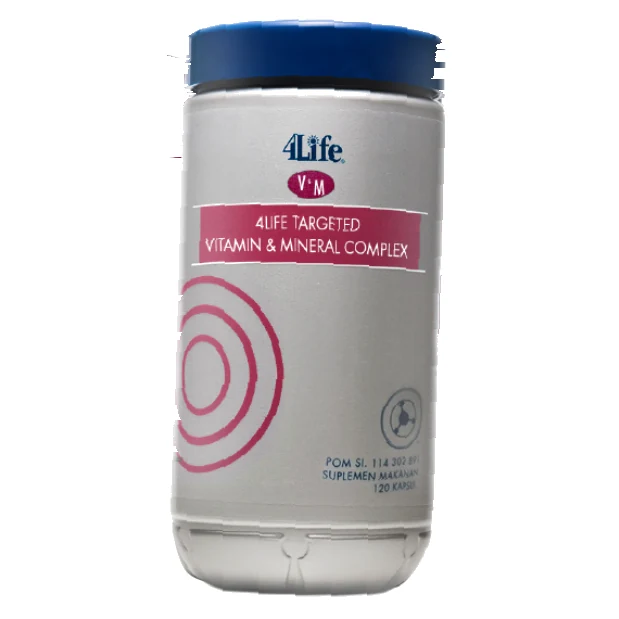
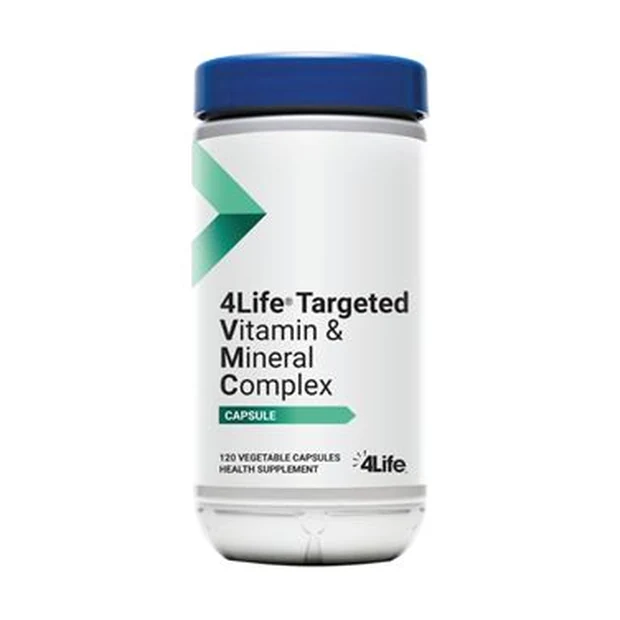
Ganti foto TVMC dan tambah info sertifikasi halal IFANCA
- img/tvmc.webp: foto botol baru Targeted Vitamin & Mineral Complex
  (logo halal di samping botol dihapus), 620x620.
- Beranda: poin "Bersertifikat halal IFANCA" di hero, kartu alasan
  "Terdaftar BPOM & bersertifikat halal".
- Produk: poin BPOM/halal dan catatan bahwa seluruh produk 4Life
  Indonesia yang dipasarkan resmi tersertifikasi halal oleh IFANCA.

Claude-Session: https://claude.ai/code/session_01Vn8mpWyrq4Lj84maXEEDkS

diff --git a/tf.html b/tf.html
@@ -58,6 +58,11 @@
           <div>
             <h1>Produk 4Life Transfer Factor®</h1>
             <p>Rangkaian suplemen kesehatan dari 4Life Research yang dipasarkan di Indonesia melalui PT 4Life Indonesia Trading. Kegunaan setiap produk mengikuti klaim yang terdaftar di BPOM.</p>
+            <ul class="hero-proof">
+              <li><i class="fas fa-check-circle" aria-hidden="true"></i> Terdaftar BPOM</li>
+              <li><i class="fas fa-check-circle" aria-hidden="true"></i> Bersertifikat halal IFANCA</li>
+            </ul>
+            <p class="halal-note">Seluruh produk <a href="https://indonesia.4life.com/" target="_blank" rel="noopener">4Life Indonesia</a> yang dipasarkan secara resmi telah tersertifikasi halal oleh IFANCA (The Islamic Food and Nutrition Council of America).</p>
             <div class="hero-actions">
               <a class="btn btn--wa" href="https://wa.me/628111611368?text=Halo%2C%20saya%20mau%20konsultasi%20produk%204Life"><i class="fab fa-whatsapp" aria-hidden="true"></i> Bantu saya memilih</a>
               <a class="btn btn--ghost" href="https://indonesia.4life.com/leogito/shop/all" target="_blank" rel="noopener">Toko online resmi</a>
@@ -149,7 +154,7 @@
             </div>
           </article>
           <article class="product">
-            <div class="product-img"><img src="img/tvmc.webp" width="619" height="619" alt="4Life Targeted Vitamin and Mineral Complex" loading="lazy" /></div>
+            <div class="product-img"><img src="img/tvmc.webp?v=2" width="620" height="620" alt="4Life Targeted Vitamin and Mineral Complex" loading="lazy" /></div>
             <div class="product-body">
               <h3>4Life Targeted Vitamin &amp; Mineral Complex</h3>
               <p class="kind">Perpaduan nutrisi mikro esensial yang dilengkapi antioksidan, mendukung produktivitas dan gaya hidup sehat.</p>

diff --git a/index.html b/index.html
@@ -66,6 +66,7 @@
             <ul class="hero-proof">
               <li><i class="fas fa-check-circle" aria-hidden="true"></i> Produk terdaftar BPOM</li>
               <li><i class="fas fa-check-circle" aria-hidden="true"></i> Belanja lewat toko resmi 4Life</li>
+              <li><i class="fas fa-check-circle" aria-hidden="true"></i> Bersertifikat halal IFANCA</li>
             </ul>
           </div>
           <div class="capsule">
@@ -125,7 +126,7 @@
             </li>
             <li>
               <span class="ico"><i class="fas fa-clipboard-check" aria-hidden="true"></i></span>
-              <div><h3>Terdaftar BPOM</h3><p>Setiap produk punya nomor izin edar yang bisa Anda cek sendiri di <a href="https://cekbpom.pom.go.id" target="_blank" rel="noopener">cekbpom.pom.go.id</a>.</p></div>
+              <div><h3>Terdaftar BPOM &amp; bersertifikat halal</h3><p>Setiap produk punya nomor izin edar yang bisa Anda cek sendiri di <a href="https://cekbpom.pom.go.id" target="_blank" rel="noopener">cekbpom.pom.go.id</a>. Seluruh produk <a href="https://indonesia.4life.com/" target="_blank" rel="noopener">4Life Indonesia</a> yang dipasarkan secara resmi juga telah tersertifikasi halal oleh IFANCA (The Islamic Food and Nutrition Council of America).</p></div>
             </li>
             <li>
               <span class="ico"><i class="fas fa-store" aria-hidden="true"></i></span>

diff --git a/css/main.css b/css/main.css
@@ -285,6 +285,8 @@ p { margin: 0 0 1em; }
 .page-intro { padding: 48px 0 24px; overflow: hidden; }
 .page-intro .wrap { display: grid; gap: 32px; align-items: center; }
 .page-intro p { color: var(--muted); font-size: 1.1rem; max-width: 56ch; }
+.page-intro .hero-proof { margin-top: 18px; }
+.page-intro .halal-note { font-size: .95rem; margin: 10px 0 0; }
 .page-intro .capsule-img { aspect-ratio: 16 / 10; }
 @media (min-width: 900px) { .page-intro .wrap { grid-template-columns: 1.1fr .9fr; } .page-intro .capsule-img { aspect-ratio: 16 / 10; } }
 
